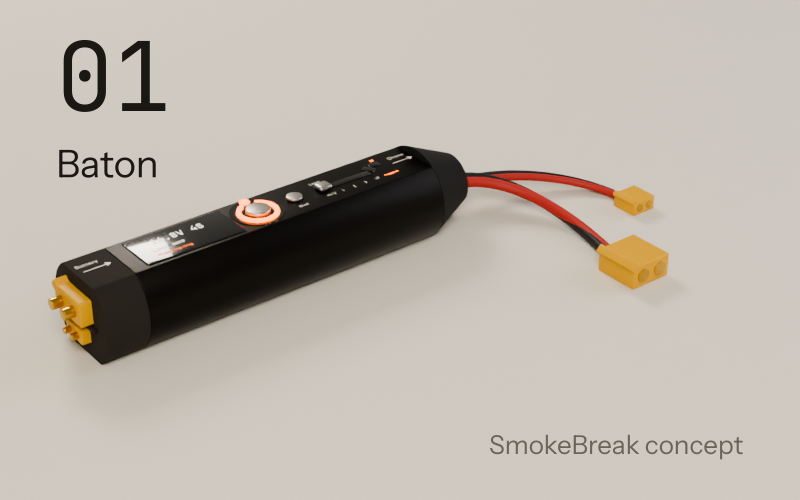
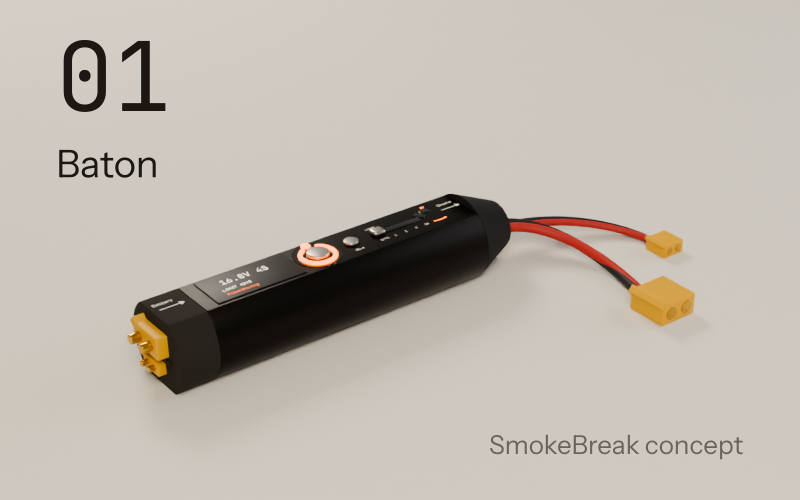
smokebreak: all 20 concepts with quick 3D renders; contact sheets
Claude-Session: https://claude.ai/code/session_01SBnFJLvm1wBa1jZy4RXnma

Changed region(s): [[0.0625, 0.27, 0.875, 0.81]]

diff --git a/smokebreak/concepts/01-baton/model.py b/smokebreak/concepts/01-baton/model.py
@@ -49,7 +49,7 @@ def build(s):
     s.text('Battery', 2.0, (X0 + 1.5, 4.0, t), align='LEFT')
     s.arrow(9, (X0 + 7.0, 0.5, t), rot_z=0)
     # screen window: 1.14" IPS under glass
-    s.box((34, 16, 0.6), (-34, 0, TOP + 0.1), m='screen', bevel=0.5, name='window')
+    s.box((34, 16, 0.6), (-34, 0, TOP + 0.1), m=s.mat('ips glass', '#060606', 0.45), bevel=0.5, name='window')
     s.text('16.8V 4S', 3.6, (-35, 2.8, TOP + 0.45), m=s.mat('ips text', s.BONE, 0.5, emit=s.BONE, strength=1.0), mono=True)
     s.text('LIMIT AUTO', 1.7, (-40.5, -2.0, TOP + 0.45), m=s.mat('ips text', s.BONE, 0.5, emit=s.BONE, strength=1.0), mono=True)
     s.text('Press the ring', 1.7, (-40.0, -5.0, TOP + 0.45), m=s.mat('ips ember', s.EMBER, 0.5, emit=s.EMBER, strength=1.2))
